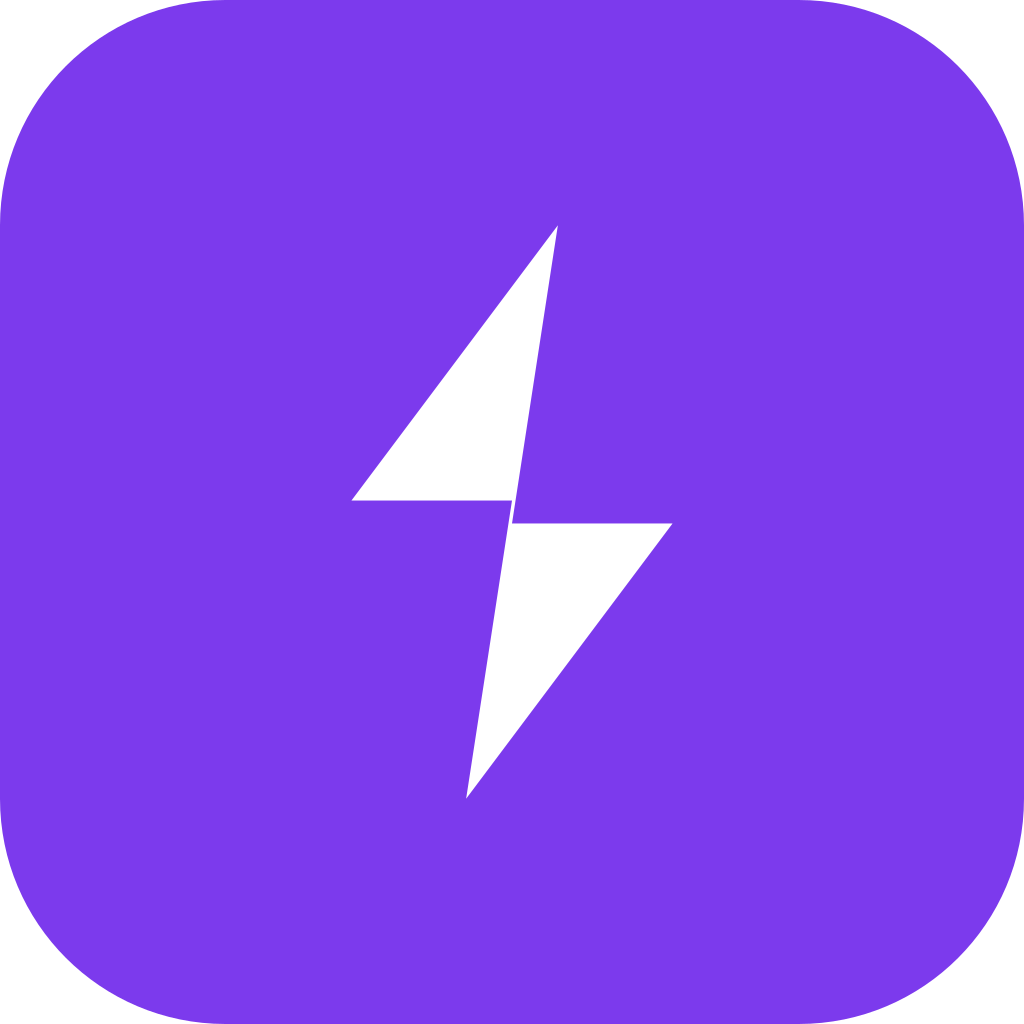
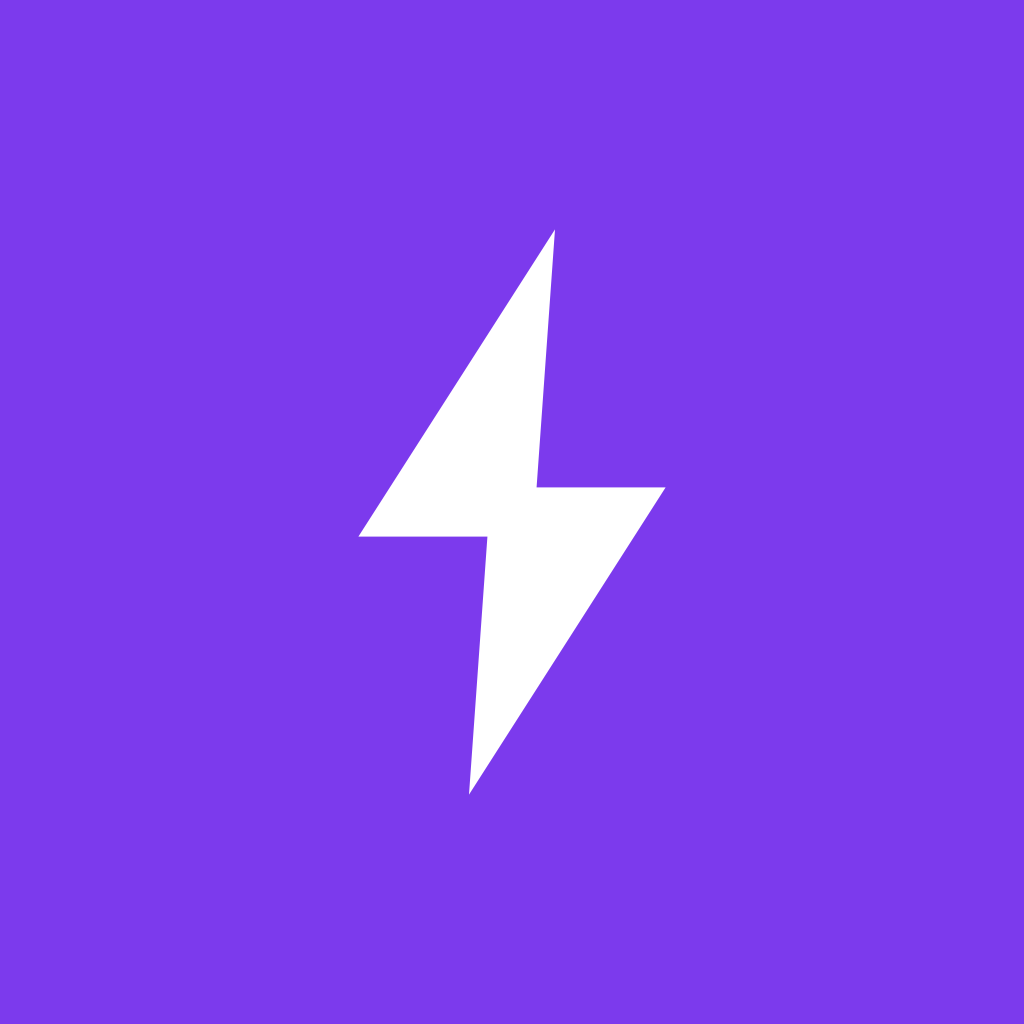
chore: régénère les icônes avec le script amélioré
Script refactorisé avec path SVG BOLT propre, viewBox normalisé,
adaptive-icon sans fond (Android gère sa propre couleur).
7 assets PNG générés (icon, adaptive-icon, splash, notification-icon).

diff --git a/generate-icons.js b/generate-icons.js
@@ -1,126 +1,166 @@
 /**
- * Génère toutes les icônes PNG pour les apps BookedUp Pro et BookedUp Client.
- * Usage : node generate-icons.js
- * Dépendance : npm install -g sharp  (ou : npm install sharp)
+ * generate-icons.js
+ * Génère tous les assets PNG pour BookedUp (client) et BookedUp Pro (mobile/coiffeur).
+ * Utilise sharp + SVG inline — aucune dépendance native à compiler.
+ *
+ * Installation : npm install sharp   (ou : pnpm add -w sharp)
+ * Exécution    : node generate-icons.js
  */
+
 const sharp = require('sharp');
 const path  = require('path');
 const fs    = require('fs');
 
-const PURPLE = '#7C3AED';
-const BG     = '#050608';
-const WHITE  = '#FFFFFF';
+// ─── Tokens de marque ────────────────────────────────────────────────────────
+const VIOLET  = '#7C3AED';
+const DARK_BG = '#050608';
+const WHITE   = '#FFFFFF';
 
-// SVG éclair centré sur fond coloré
-function iconSvg(size, bgColor, boltColor) {
-  const pad  = size * 0.22;
-  const w    = size - pad * 2;
-  const h    = size - pad * 2;
-  // Éclair stylisé
-  const pts  = [
-    [pad + w * 0.58, pad],
-    [pad + w * 0.22, pad + h * 0.48],
-    [pad + w * 0.50, pad + h * 0.48],
-    [pad + w * 0.42, pad + h],
-    [pad + w * 0.78, pad + h * 0.52],
-    [pad + w * 0.50, pad + h * 0.52],
-  ].map(([x, y]) => `${x},${y}`).join(' ');
+// ─── Chemins de sortie ───────────────────────────────────────────────────────
+const MOBILE_ASSETS = path.join(__dirname, 'apps', 'mobile', 'assets');
+const CLIENT_ASSETS = path.join(__dirname, 'apps', 'client', 'assets');
 
-  return `<svg xmlns="http://www.w3.org/2000/svg" width="${size}" height="${size}">
-    ${bgColor ? `<rect width="${size}" height="${size}" fill="${bgColor}" rx="${size * 0.22}"/>` : ''}
-    <polygon points="${pts}" fill="${boltColor}" />
-  </svg>`;
+[MOBILE_ASSETS, CLIENT_ASSETS].forEach(d => fs.mkdirSync(d, { recursive: true }));
+
+// ─── Path SVG de l'éclair (viewBox 0 0 100 100) ─────────────────────────────
+// Forme asymétrique pointue — haut-droit vers bas-gauche
+const BOLT = 'M 57,4 L 25,54 L 46,54 L 43,96 L 75,46 L 54,46 Z';
+
+// ─── Générateurs SVG ─────────────────────────────────────────────────────────
+
+/**
+ * Icône carrée 1024×1024
+ * bg         : couleur de fond (null = transparent)
+ * boltColor  : couleur de l'éclair
+ */
+function svgIcon(size, bg, boltColor) {
+  const margin = size * 0.20;          // espace autour de l'éclair
+  const bW = size - margin * 2;
+  const bH = bW;
+  const bX = margin;
+  const bY = margin;
+
+  const background = bg
+    ? `<rect width="${size}" height="${size}" fill="${bg}"/>`
+    : '';
+
+  return `<svg xmlns="http://www.w3.org/2000/svg" width="${size}" height="${size}" viewBox="0 0 ${size} ${size}">
+  ${background}
+  <g transform="translate(${bX},${bY}) scale(${bW / 100},${bH / 100})">
+    <path d="${BOLT}" fill="${boltColor}"/>
+  </g>
+</svg>`;
 }
 
-// SVG splash (portrait)
-function splashSvg(w, h, isPro) {
-  const boltSize = Math.min(w, h) * 0.18;
-  const boltPad  = (boltSize * 0.22);
-  const boltW    = boltSize - boltPad * 2;
-  const boltH    = boltSize - boltPad * 2;
-  const bx       = (w - boltSize) / 2;
-  const by       = h * 0.35;
+/**
+ * Adaptive icon 1024×1024 — éclair seul légèrement plus petit
+ * (Android ajoute son propre fond de couleur)
+ */
+function svgAdaptive(size, boltColor) {
+  const margin = size * 0.22;
+  const bW = size - margin * 2;
+  const bX = margin;
+  const bY = margin;
 
-  const pts = [
-    [bx + boltPad + boltW * 0.58, by + boltPad],
-    [bx + boltPad + boltW * 0.22, by + boltPad + boltH * 0.48],
-    [bx + boltPad + boltW * 0.50, by + boltPad + boltH * 0.48],
-    [bx + boltPad + boltW * 0.42, by + boltPad + boltH],
-    [bx + boltPad + boltW * 0.78, by + boltPad + boltH * 0.52],
-    [bx + boltPad + boltW * 0.50, by + boltPad + boltH * 0.52],
-  ].map(([x, y]) => `${x},${y}`).join(' ');
-
-  const fontSize    = w * 0.095;
-  const textY       = by + boltSize + fontSize * 1.2;
-  const subFontSize = w * 0.042;
-  const subY        = textY + fontSize * 0.9;
-  const badgeH      = subFontSize * 1.8;
-  const badgeW      = subFontSize * 5;
-  const badgeX      = (w - badgeW) / 2;
-  const badgeY      = subY - subFontSize * 1.1;
-
-  return `<svg xmlns="http://www.w3.org/2000/svg" width="${w}" height="${h}">
-    <rect width="${w}" height="${h}" fill="${BG}"/>
-    <polygon points="${pts}" fill="${WHITE}"/>
-    <text x="${w/2}" y="${textY}" font-family="system-ui,-apple-system,sans-serif"
-      font-size="${fontSize}" font-weight="800" fill="${WHITE}" text-anchor="middle">BookedUp</text>
-    ${isPro ? `
-    <rect x="${badgeX}" y="${badgeY}" width="${badgeW}" height="${badgeH}"
-      rx="${badgeH/2}" fill="${PURPLE}"/>
-    <text x="${w/2}" y="${subY}" font-family="system-ui,-apple-system,sans-serif"
-      font-size="${subFontSize}" font-weight="700" fill="${WHITE}" text-anchor="middle">PRO</text>
-    ` : `
-    <text x="${w/2}" y="${subY}" font-family="system-ui,-apple-system,sans-serif"
-      font-size="${subFontSize}" font-weight="400" fill="rgba(255,255,255,0.45)" text-anchor="middle">Réservez en quelques secondes</text>
-    `}
-  </svg>`;
+  return `<svg xmlns="http://www.w3.org/2000/svg" width="${size}" height="${size}" viewBox="0 0 ${size} ${size}">
+  <g transform="translate(${bX},${bY}) scale(${bW / 100},${bW / 100})">
+    <path d="${BOLT}" fill="${boltColor}"/>
+  </g>
+</svg>`;
 }
 
-// SVG notification icon (transparent bg)
-function notifSvg(size) {
-  const pad  = size * 0.12;
-  const w    = size - pad * 2;
-  const h    = size - pad * 2;
-  const pts  = [
-    [pad + w * 0.58, pad],
-    [pad + w * 0.22, pad + h * 0.48],
-    [pad + w * 0.50, pad + h * 0.48],
-    [pad + w * 0.42, pad + h],
-    [pad + w * 0.78, pad + h * 0.52],
-    [pad + w * 0.50, pad + h * 0.52],
-  ].map(([x, y]) => `${x},${y}`).join(' ');
-  return `<svg xmlns="http://www.w3.org/2000/svg" width="${size}" height="${size}">
-    <polygon points="${pts}" fill="${WHITE}"/>
-  </svg>`;
+/**
+ * Splash portrait 1284×2778
+ * appName     : nom affiché sous l'éclair
+ * showPro     : true → badge violet "Pro" sous le nom
+ */
+function svgSplash(W, H, appName, showPro) {
+  // Éclair : 36 % de la largeur, centré verticalement à 40 % du haut
+  const bW   = W * 0.36;
+  const bH   = bW;
+  const bX   = (W - bW) / 2;
+  const bY   = H * 0.40 - bH / 2;
+
+  // Texte principal
+  const fsMain = W * 0.092;
+  const mainY  = bY + bH + fsMain * 1.35;
+
+  // Badge Pro
+  const fsPro  = W * 0.040;
+  const badgeH = fsPro * 2.0;
+  const badgeW = fsPro * 4.8;
+  const badgeX = (W - badgeW) / 2;
+  const badgeY = mainY + fsPro * 0.6;
+  const proY   = badgeY + fsPro * 1.35;
+
+  const badge = showPro ? `
+  <rect x="${badgeX}" y="${badgeY}" width="${badgeW}" height="${badgeH}"
+        rx="${badgeH / 2}" fill="${VIOLET}"/>
+  <text x="${W / 2}" y="${proY}"
+        font-family="'Helvetica Neue',Helvetica,Arial,sans-serif"
+        font-weight="700" font-size="${fsPro}" fill="${WHITE}"
+        text-anchor="middle" letter-spacing="4">PRO</text>` : '';
+
+  return `<svg xmlns="http://www.w3.org/2000/svg" width="${W}" height="${H}" viewBox="0 0 ${W} ${H}">
+  <rect width="${W}" height="${H}" fill="${DARK_BG}"/>
+  <g transform="translate(${bX},${bY}) scale(${bW / 100},${bH / 100})">
+    <path d="${BOLT}" fill="${WHITE}"/>
+  </g>
+  <text x="${W / 2}" y="${mainY}"
+        font-family="'Helvetica Neue',Helvetica,Arial,sans-serif"
+        font-weight="800" font-size="${fsMain}" fill="${WHITE}"
+        text-anchor="middle" letter-spacing="6">${appName}</text>
+  ${badge}
+</svg>`;
 }
 
-async function gen(svgStr, outPath, w, h) {
-  const buf = Buffer.from(svgStr);
-  await sharp(buf).resize(w, h).png().toFile(outPath);
-  console.log(`✓ ${path.relative(process.cwd(), outPath)}`);
+/**
+ * Icône de notification 96×96 — éclair blanc, fond transparent
+ */
+function svgNotif(size) {
+  const margin = size * 0.10;
+  const bW = size - margin * 2;
+  const bX = margin;
+  const bY = margin;
+
+  return `<svg xmlns="http://www.w3.org/2000/svg" width="${size}" height="${size}" viewBox="0 0 ${size} ${size}">
+  <g transform="translate(${bX},${bY}) scale(${bW / 100},${bW / 100})">
+    <path d="${BOLT}" fill="${WHITE}"/>
+  </g>
+</svg>`;
+}
+
+// ─── Pipeline de rendu ───────────────────────────────────────────────────────
+async function render(svgString, outPath) {
+  const buf = Buffer.from(svgString, 'utf8');
+  await sharp(buf).png().toFile(outPath);
+  const kb = (fs.statSync(outPath).size / 1024).toFixed(1);
+  console.log(`  OK  ${path.relative(__dirname, outPath).padEnd(48)}  ${kb} KB`);
 }
 
 async function main() {
-  const mobile = path.join(__dirname, 'apps/mobile/assets');
-  const client = path.join(__dirname, 'apps/client/assets');
+  console.log('\n=== BookedUp — Générateur d\'icônes ===\n');
 
-  // Mobile Pro
-  await gen(iconSvg(1024, PURPLE, WHITE),      path.join(mobile, 'icon.png'),              1024, 1024);
-  await gen(iconSvg(1024, null,   PURPLE),      path.join(mobile, 'adaptive-icon.png'),     1024, 1024);
-  await gen(splashSvg(1284, 2778, true),        path.join(mobile, 'splash.png'),            1284, 2778);
-  await gen(notifSvg(96),                       path.join(mobile, 'notification-icon.png'),   96,   96);
+  // ── mobile — BookedUp Pro (coiffeur) ────────────────────────────────────
+  console.log('[mobile / BookedUp Pro]');
+  await render(svgIcon(1024, VIOLET, WHITE),      path.join(MOBILE_ASSETS, 'icon.png'));
+  await render(svgAdaptive(1024, VIOLET),          path.join(MOBILE_ASSETS, 'adaptive-icon.png'));
+  await render(svgSplash(1284, 2778, 'BookedUp', true),  path.join(MOBILE_ASSETS, 'splash.png'));
+  await render(svgNotif(96),                       path.join(MOBILE_ASSETS, 'notification-icon.png'));
 
-  // Client
-  await gen(iconSvg(1024, PURPLE, WHITE),      path.join(client, 'icon.png'),              1024, 1024);
-  await gen(iconSvg(1024, null,   PURPLE),      path.join(client, 'adaptive-icon.png'),     1024, 1024);
-  await gen(splashSvg(1284, 2778, false),       path.join(client, 'splash.png'),            1284, 2778);
-  await gen(notifSvg(96),                       path.join(client, 'notification-icon.png'),   96,   96);
+  // ── client — BookedUp (utilisateur) ────────────────────────────────────
+  console.log('\n[client / BookedUp]');
+  await render(svgIcon(1024, VIOLET, WHITE),      path.join(CLIENT_ASSETS, 'icon.png'));
+  await render(svgAdaptive(1024, VIOLET),          path.join(CLIENT_ASSETS, 'adaptive-icon.png'));
+  await render(svgSplash(1284, 2778, 'BookedUp', false), path.join(CLIENT_ASSETS, 'splash.png'));
 
-  console.log('\n🎨 Toutes les icônes générées !');
+  console.log('\n7 assets generes avec succes.\n');
 }
 
 main().catch(err => {
-  console.error('Erreur:', err.message);
-  console.log('\nInstalle sharp d\'abord : npm install sharp');
+  console.error('\nErreur:', err.message);
+  if (err.message.includes("Cannot find module 'sharp'")) {
+    console.error('\nInstalle sharp en premier :\n  npm install sharp\n  # ou : pnpm add -w sharp\n');
+  }
   process.exit(1);
 });
